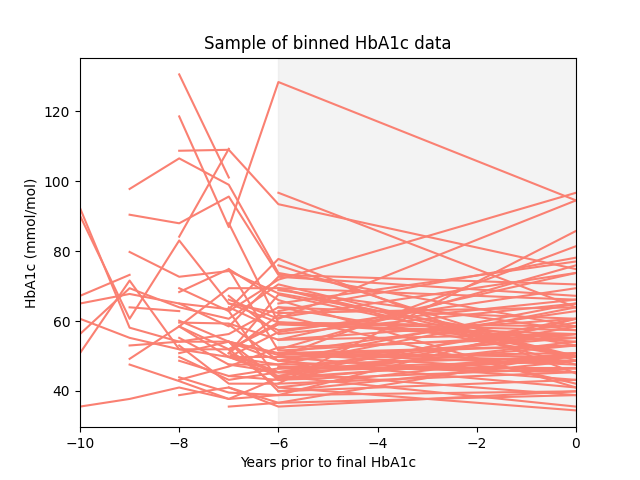
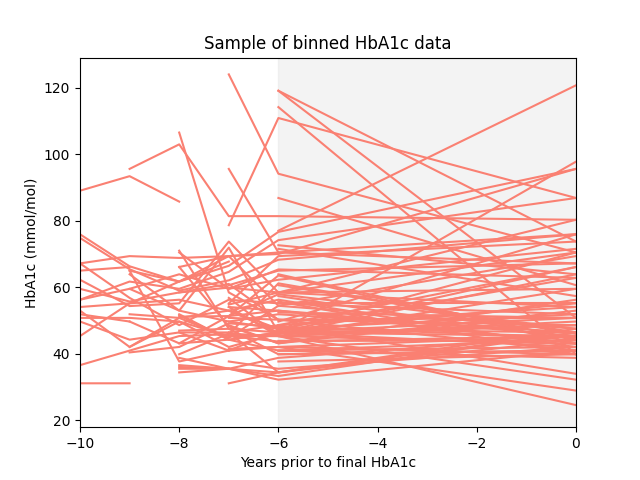
Wrote up results in readme. Small change to HbA1c query and updated results accordingly.

diff --git a/projects/diabetes_risk/01-xgboost-on-binned-hba1c.py b/projects/diabetes_risk/01-xgboost-on-binned-hba1c.py
@@ -24,16 +24,11 @@ def load_and_process_data(conn: SnowflakeConnection) -> tuple[pd.DataFrame, pd.D
         sql = fid.read()
         conn.session.sql(sql).collect()
     
-    # patients = conn.session.sql("""
-    # select *
-    # from INTELLIGENCE_DEV.AI_CENTRE_FEATURE_STORE.T2DM_PATIENTS_WITH_HBA1C_BINS
-    # where mod(abs(hash(person_id)), 100) < 100
-    # """).to_pandas()
-
     patients = conn.session.sql("""
     select *
-    from INTELLIGENCE_DEV.AI_CENTRE_FEATURE_STORE.T2DM_PATIENTS_WITH_HBA1C_BINS;
-    """).to_pandas()
+    from INTELLIGENCE_DEV.AI_CENTRE_FEATURE_STORE.T2DM_PATIENTS_WITH_HBA1C_BINS
+    where mod(abs(hash(person_id)), 100) < 100
+    """).to_pandas() # change the number after the < to vary the percentage of data selected
 
     print('Data of size', patients.shape, 'loaded')
 

diff --git a/projects/diabetes_risk/readme.md b/projects/diabetes_risk/readme.md
@@ -1,0 +1,26 @@
+# Experiments in predicting risk of progresison in patients with diabetes
+
+## Experiment 1: Using XGBoost to predict future HbA1c
+
+Data:
+- Patients coded as having non-T1 diabetes, who also have HbA1c data
+- HbA1c assumed to be % if between 4 and 15, or mmol/mol if between 19 and 140. All values then converted to mmol/mol
+- The final HbA1c for any given patient was used as the outcome variable.
+- All HbA1cs in the 5 years prior to the outcome variable were discarded
+- In the 5 years prior to this, HbA1c was averaged by year so there were annual HbA1cs from 6 to 10 years prior to the time of the outcome HbA1c
+- The input variables were average yearly annual HbA1c for years -10 to -6, gender, ethnicity and age at the end of the observation period
+- All data currently available used (n ~= 62,000)
+
+![data](figs/01-hba1c-bins.png)
+
+Model:
+- XGBoost Regression
+- NB very sparse data with lots of missing values - XGBoost handles natively
+
+Results:
+
+![predicted v actual](figs/01-hba1c-predicted-vs-actual.png)
+
+To Do:
+- This is quite a challenging task as the blinded period prior to the outcome HbA1c is long (5 years). Try with shorter outcome periods
+- Incorporate further predictor variables e.g. medication use, smoking status
